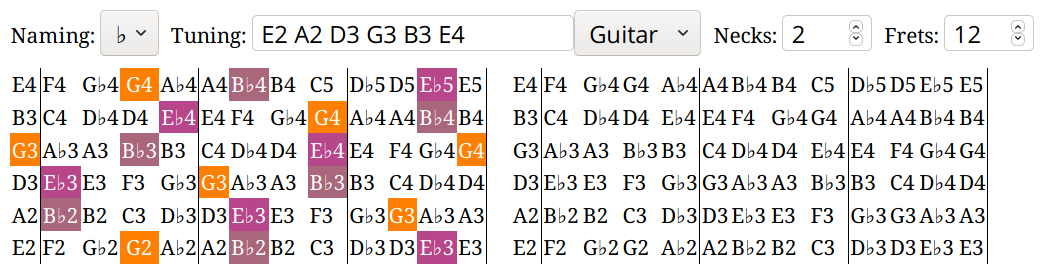
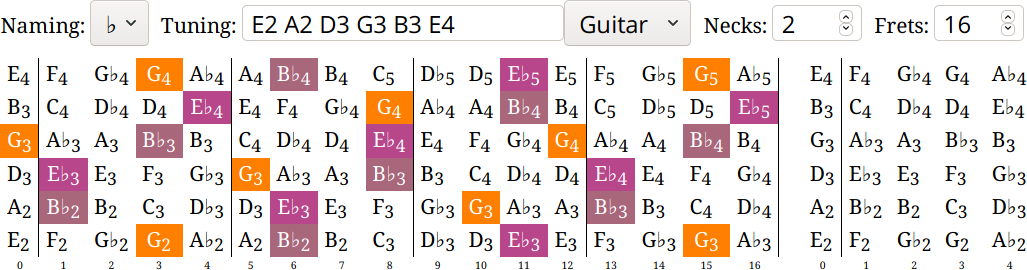
Improve looks

diff --git a/index.js b/index.js
@@ -1,6 +1,6 @@
 // Generated by LiveScript 1.6.0
 (function(){
-  var R, ReactDOM, componentize, DOMImport, notes, tunings, Fretboard, App, slice$ = [].slice, arrayFrom$ = Array.from || function(x){return slice$.call(x);}, toString$ = {}.toString, this$ = this;
+  var R, ReactDOM, componentize, DOMImport, noteOffsets, notes, tunings, rxTone, parseTone, formatTone, Fretboard, App, slice$ = [].slice, arrayFrom$ = Array.from || function(x){return slice$.call(x);}, toString$ = {}.toString, this$ = this;
   R = preact;
   ReactDOM = R;
   componentize = function(elem){
@@ -23,7 +23,16 @@
   DOMImport = function(tag){
     return this$[tag] = componentize(tag);
   };
-  ['div', 'nav', 'ul', 'ol', 'li', 'p', 'a', 'i', 'b', 'span', 'small', 'br', 'h1', 'h2', 'h3', 'table', 'caption', 'thead', 'tbody', 'tr', 'th', 'td', 'form', 'label', 'input', 'select', 'datalist', 'option', 'button', 'hr', 'img'].forEach(DOMImport);
+  ['div', 'nav', 'ul', 'ol', 'li', 'p', 'a', 'i', 'b', 'span', 'small', 'sub', 'br', 'h1', 'h2', 'h3', 'table', 'caption', 'thead', 'tbody', 'tfoot', 'tr', 'th', 'td', 'form', 'label', 'input', 'select', 'datalist', 'option', 'button', 'hr', 'img'].forEach(DOMImport);
+  noteOffsets = {
+    C: 0,
+    D: 2,
+    E: 4,
+    F: 5,
+    G: 7,
+    A: 9,
+    B: 11
+  };
   notes = {
     '♯': ['C', 'C♯', 'D', 'D♯', 'E', 'F', 'F♯', 'G', 'G♯', 'A', 'A♯', 'B'],
     '♭': ['C', 'D♭', 'D', 'E♭', 'E', 'F', 'G♭', 'G', 'A♭', 'A', 'B♭', 'B']
@@ -37,6 +46,26 @@
     Ukulele: 'G4 C4 E4 A4',
     Violin: 'G3 D4 A4 E5'
   };
+  rxTone = /([A-G])(?:([#♯])|([b♭]))?([0-9])?/;
+  parseTone = function(s){
+    var m, note, sharp, flat, octave;
+    if (m = rxTone.exec(s.toUpperCase())) {
+      s = m[0], note = m[1], sharp = m[2], flat = m[3], octave = m[4];
+      return Number(octave || 1) * 12 + noteOffsets[note] + (function(){
+        switch (false) {
+        case !sharp:
+          return 1;
+        case !flat:
+          return -1;
+        default:
+          return 0;
+        }
+      }());
+    }
+  };
+  formatTone = function(tone, naming){
+    return [notes[naming][tone % 12], sub(Math.floor(tone / 12))];
+  };
   Fretboard = componentize(Fretboard = (function(superclass){
     var prototype = extend$((import$(Fretboard, superclass).displayName = 'Fretboard', Fretboard), superclass).prototype, constructor = Fretboard;
     Fretboard.prototype.state = {};
@@ -45,21 +74,12 @@
       return this.setState((ref$ = {}, ref$[note] = !this.state[note], ref$));
     };
     Fretboard.prototype.render = function(){
-      var tones, res$, i$, i, j$, ref$, len$, note, strings, x, col, row, rows, this$ = this;
-      res$ = [];
-      for (i$ = 1; i$ <= 7; ++i$) {
-        i = i$;
-        for (j$ = 0, len$ = (ref$ = notes[this.props.naming]).length; j$ < len$; ++j$) {
-          note = ref$[j$];
-          res$.push(note + i);
-        }
-      }
-      tones = res$;
+      var strings, res$, i$, ref$, len$, x, col, row, i, j, this$ = this;
       res$ = [];
       for (i$ = 0, len$ = (ref$ = this.props.tuning.split(' ').reverse()).length; i$ < len$; ++i$) {
         x = ref$[i$];
         if (x) {
-          res$.push(tones.indexOf(x));
+          res$.push(parseTone(x));
         }
       }
       strings = res$;
@@ -73,7 +93,7 @@
           onClick: function(){
             return this$.toggleNote(noteOffset);
           }
-        }, tones[toneOffset]);
+        }, formatTone(toneOffset, this$.props.naming));
       };
       row = function(i){
         var j;
@@ -88,13 +108,21 @@
           return results$;
         }.call(this$)));
       };
-      res$ = [];
-      for (i$ = 0, len$ = strings.length; i$ < len$; ++i$) {
-        i = i$;
-        res$.push(row(i));
-      }
-      rows = res$;
-      return table(tbody(rows));
+      return table(tbody((function(){
+        var i$, len$, results$ = [];
+        for (i$ = 0, len$ = strings.length; i$ < len$; ++i$) {
+          i = i$;
+          results$.push(row(i));
+        }
+        return results$;
+      }())), tfoot(tr((function(){
+        var i$, to$, results$ = [];
+        for (i$ = 0, to$ = this.props.nfrets; i$ <= to$; ++i$) {
+          j = i$;
+          results$.push(td(j));
+        }
+        return results$;
+      }.call(this)))));
     };
     function Fretboard(){
       this.render = bind$(this, 'render', prototype);

diff --git a/index.css b/index.css
@@ -21,11 +21,20 @@ input[type=number] {
 }
 
 td {
+  padding: 0 5px;
+}
+
+tbody td {
   cursor: pointer;
 }
 
-td:nth-child(4n+1) {
+tbody td:nth-child(4n+1) {
   border-right: 1px solid black;
+}
+
+tfoot {
+  text-align: center;
+  font-size: 50%;
 }
 
 .active {

diff --git a/README.md b/README.md
@@ -9,18 +9,18 @@ This web app can help you choose a fingering for a chord.
 
    ![screenshot](screenshot.png)
 
-   It highlights the frets of the fingerboard with the selected notes — a G3 (G of the small octave) on the open third string, an E♭3 on the first fret of the fourth string, etc. until G4 on the 12th fret of the third string. The leftmost vertical line represents the nut that supports the strings, and the other vertical lines are there to aid counting the frets. The empty fingerboard to the right can be used for another chord.
+   It highlights the frets of the fingerboard with the selected notes — a G3 (G of the small octave) on the open third string, an E♭3 on the first fret of the fourth string, etc. until E♭5 on the 16th fret of the second string. The leftmost vertical line represents the nut that supports the strings, and the other vertical lines are there to aid counting the frets. The empty fingerboard to the right can be used for another chord.
 
 3. Choose what and where to play. In the case of E♭ some of the options are:
 
    ```
-      E♭/B♭ E♭/G  E♭    E♭   E♭    E♭/B♭ E♭    E♭/B♭ E♭/G
-   E|-------3-----3----------6-----6-----------11----11---|
-   B|-------4-----4-----8----8-----8-----8-----8-----11---|
-   G|-0-----3-----3-----0----8-----8-----8-----8-----12---|
-   D|-1-----5-----5-----8----8-----8-----8-----8----------|
-   A|-1-----------6-----6----6-----6-----10---------------|
-   E|------------------------------6-----11---------------|
+      E♭/B♭ E♭/G  E♭    E♭    E♭    E♭/B♭ E♭    E♭/B♭ E♭/G  E♭
+   E|-------3-----3-----------6-----6-----------11----11----11-|
+   B|-------4-----4-----8-----8-----8-----8-----8-----11----11-|
+   G|-0-----3-----3-----0-----8-----8-----8-----8-----12----12-|
+   D|-1-----5-----5-----8-----8-----8-----8-----8-----------13-|
+   A|-1-----------6-----6-----6-----6-----10-------------------|
+   E|-------------------------------6-----11-------------------|
    ```
 
 # About colors
